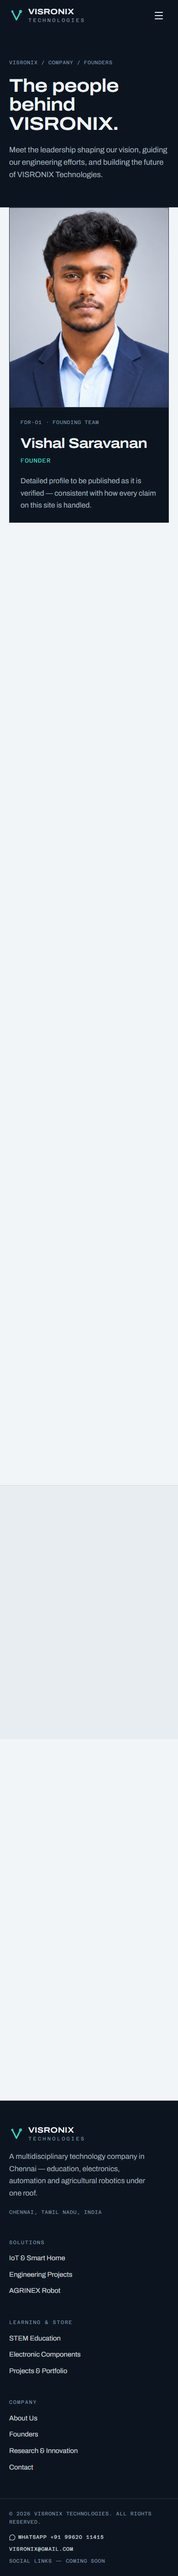
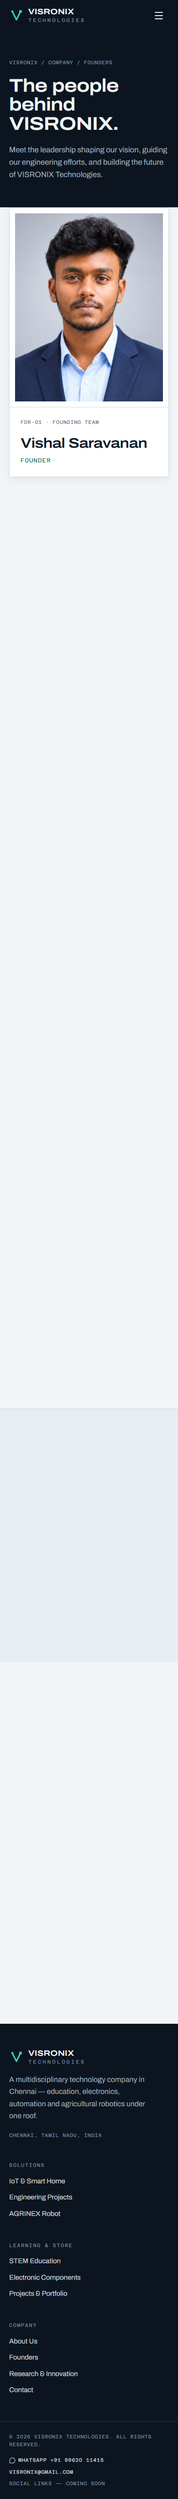
Fixes

Changed region(s): [[0.0308, 0.0, 0.9538, 0.2185], [0.0, 0.8115, 1.0, 0.9987], [0.3692, 0.9675, 0.5846, 0.9987]]

diff --git a/src/pages/Founders.tsx b/src/pages/Founders.tsx
@@ -42,19 +42,15 @@ export default function Founders() {
       {/* ── Founder feature ──────────────────────────── */}
       <section className="section-y pt-0!">
         <div className="container-x">
-          <Reveal className="brackets panel-face on-face grid overflow-hidden md:grid-cols-[2fr_3fr]">
-            <div className="relative aspect-[4/5] overflow-hidden border-b border-face-line md:aspect-auto md:border-b-0 md:border-r">
+          <Reveal className="panel grid overflow-hidden md:grid-cols-[2fr_3fr]">
+            <div className="aspect-[4/5] overflow-hidden border-b border-line p-3 md:aspect-auto md:border-b-0 md:border-r">
               <Portrait f={founder} eager />
             </div>
             <div className="flex flex-col justify-center p-6 md:p-10">
-              <span className="data-xs text-face-low">FDR-01 · FOUNDING TEAM</span>
+              <span className="data-xs text-low">FDR-01 · FOUNDING TEAM</span>
               <h2 className="display mt-5">{founder.name}</h2>
-              <p className="data mt-3 uppercase text-accent-bright" style={{ letterSpacing: '0.08em' }}>
+              <p className="data mt-3 uppercase text-accent" style={{ letterSpacing: '0.08em' }}>
                 {founder.position}
-              </p>
-              <p className="body-text mt-5 max-w-md text-face-mid">
-                Detailed profile to be published as it is verified — consistent with how every
-                claim on this site is handled.
               </p>
             </div>
           </Reveal>
@@ -74,7 +70,7 @@ export default function Founders() {
           <div className="mt-10 grid gap-5 sm:grid-cols-2 lg:grid-cols-3">
             {leadership.map((f, i) => (
               <Reveal key={f.file} className="panel flex flex-col overflow-hidden">
-                <div className="aspect-[4/5] overflow-hidden border-b border-face-line">
+                <div className="aspect-[4/5] overflow-hidden border-b border-line p-3">
                   <Portrait f={f} />
                 </div>
                 <div className="flex flex-1 flex-col p-5">
@@ -87,11 +83,6 @@ export default function Founders() {
               </Reveal>
             ))}
           </div>
-          <Reveal>
-            <p className="data-xs mt-8 text-low">
-              FULL BIOGRAPHIES WILL BE PUBLISHED AS THEY ARE VERIFIED — NO DETAILS ARE INVENTED
-            </p>
-          </Reveal>
         </div>
       </section>
 
